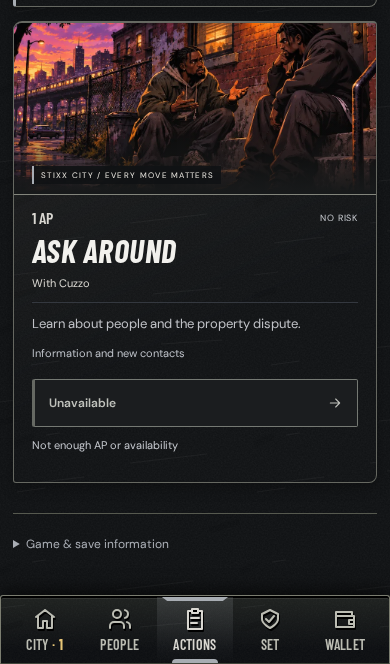
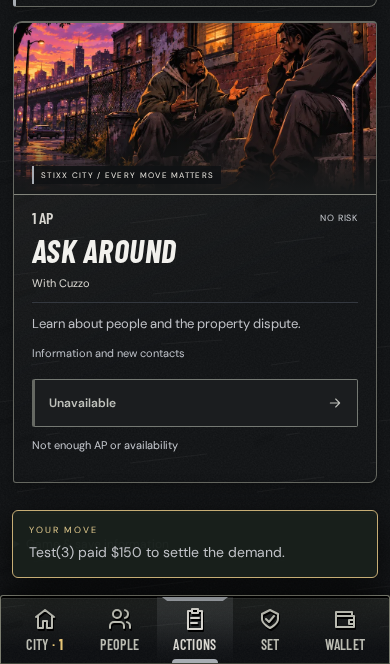
Keep immediate action results visible above the phone dock

diff --git a/src/ui/App.tsx b/src/ui/App.tsx
@@ -131,6 +131,12 @@ export function App() {
     null,
   );
   const [dayTransition, setDayTransition] = useState<number | null>(null);
+  const [actionFeedback, setActionFeedback] = useState<string | null>(null);
+  useEffect(() => {
+    if (!actionFeedback) return;
+    const timer = window.setTimeout(() => setActionFeedback(null), 5000);
+    return () => clearTimeout(timer);
+  }, [actionFeedback]);
   useEffect(() => {
     if (dayTransition === null) return;
     const timer = window.setTimeout(() => setDayTransition(null), 2200);
@@ -159,6 +165,7 @@ export function App() {
   }, [s]);
   function start() {
     window.scrollTo(0, 0);
+    setActionFeedback(null);
     const next = newGame(name, home);
     setState(next);
     setSelected(home);
@@ -167,6 +174,7 @@ export function App() {
     setNotice("You’re home. Clock in, check on Cuzzo, or see who’s around.");
   }
   function load(resume = false) {
+    setActionFeedback(null);
     try {
       const next = resume
         ? loadGame(localStorage, AUTO_KEY) || loadGame(localStorage)
@@ -184,6 +192,7 @@ export function App() {
     }
   }
   function save() {
+    setActionFeedback(null);
     if (s)
       try {
         saveGame(localStorage, s);
@@ -196,10 +205,14 @@ export function App() {
   function act(a: Action) {
     if (!s) return;
     const result = performAction(s, a);
-    if (result.error) setNotice(result.error);
-    else {
+    if (result.error) {
+      setNotice(result.error);
+      setActionFeedback(result.error);
+    } else {
       setState(result.state);
-      setNotice(result.event?.text ?? "Action completed.");
+      const message = result.event?.text ?? "Action completed.";
+      setNotice(message);
+      setActionFeedback(message);
     }
   }
   function respond(id: string, response: string) {
@@ -219,6 +232,7 @@ export function App() {
                 ? "Outcome acknowledged. The city moves on; the history remains."
                 : "Cuzzo explains what happened.";
       setNotice(reply);
+      if (response !== "clarify") setActionFeedback(reply);
     }
   }
   function showConversation(id: string) {
@@ -251,7 +265,11 @@ export function App() {
     setScreen("Actions");
   }
   const toast = (
-    <div className="notice" role="status" aria-live="polite">
+    <div
+      className="notice"
+      role={actionFeedback ? undefined : "status"}
+      aria-live={actionFeedback ? "off" : "polite"}
+    >
       {notice || "A persistent city. Every day leaves a mark."}
     </div>
   );
@@ -362,6 +380,12 @@ export function App() {
           load={() => load(false)}
         />
         <main className="main-content" id="main-content">
+          {actionFeedback && (
+            <div className="action-feedback" role="status" aria-live="polite">
+              <small>YOUR MOVE</small>
+              <p>{actionFeedback}</p>
+            </div>
+          )}
           <div className="screen-heading">
             <div>
               <p className="eyebrow">STIXX CITY / {screen.toUpperCase()}</p>
@@ -380,6 +404,7 @@ export function App() {
             <button
               className="advance"
               onClick={() => {
+                setActionFeedback(null);
                 const next = advanceDay(s);
                 setState(next);
                 setScreen("City");

diff --git a/tests/encounters.spec.ts b/tests/encounters.spec.ts
@@ -107,6 +107,10 @@ test("true City modal, sequential questions, promise closure, queued fulfillment
   expect(incidentPromise(await saved(page), "the-chains")?.status).toBe(
     "pending",
   );
+  await expect(page.locator(".action-feedback")).toBeVisible();
+  await expect(page.locator(".action-feedback")).toHaveCount(0, {
+    timeout: 7000,
+  });
   await capture(page, "03-conversation-concluded-city");
   await page.getByLabel("Save game", { exact: true }).click();
   for (const destination of ["Actions", "People", "Set", "Wallet"]) {
@@ -125,6 +129,12 @@ test("true City modal, sequential questions, promise closure, queued fulfillment
     ),
   ).toHaveLength(1);
   await expect(page.getByRole("status")).toContainText("paid $150");
+  await expect(page.locator(".action-feedback")).toBeVisible();
+  const feedbackBox = (await page.locator(".action-feedback").boundingBox())!;
+  expect(feedbackBox.y).toBeGreaterThanOrEqual(0);
+  expect(feedbackBox.y + feedbackBox.height).toBeLessThanOrEqual(
+    (await page.getByRole("navigation").boundingBox())!.y,
+  );
   await capture(page, "04-actions-feedback-no-scene");
   await nav(page, "City");
   await expect(modal(page)).toContainText("You came through for me");

diff --git a/src/ui/encounters.css b/src/ui/encounters.css
@@ -453,3 +453,30 @@
     line-height: 1.6;
   }
 }
+.action-feedback {
+  position: fixed;
+  z-index: 60;
+  left: 50%;
+  transform: translateX(-50%);
+  bottom: calc(86px + env(safe-area-inset-bottom));
+  width: min(680px, calc(100vw - 24px));
+  padding: 13px 16px;
+  border: 1px solid #c6ad75;
+  border-radius: 6px;
+  background: #19201cf7;
+  color: #f5eddd;
+  box-shadow: 0 8px 36px #000b;
+  pointer-events: none;
+}
+.action-feedback small {
+  display: block;
+  font-size: 9px;
+  letter-spacing: 2px;
+  color: #dfc88c;
+  margin-bottom: 5px;
+}
+.action-feedback p {
+  margin: 0;
+  font-size: 14px;
+  line-height: 1.55;
+}

diff --git a/docs/GOAL_003_CORRECTION_REPORT.md b/docs/GOAL_003_CORRECTION_REPORT.md
@@ -24,7 +24,7 @@ Only City renders narrative modals. Actions, People, Set and Wallet retain their
 
 ## Immediate action results and day changes
 
-`resolveAction` returns its own recorded result event through `performAction`. The interface displays that event, so a later routine Set-capacity/progression update cannot hide the action's actual result. This fixes a real regression found during testing: a successful buyback could previously report only “Your influence supports a Set of 2.”
+`resolveAction` returns its own recorded result event through `performAction`. The interface displays that event in a five-second, viewport-fixed result toast above the dock as well as the normal feedback area. It remains visible when the action card was far down the page, and a later routine Set-capacity/progression update cannot hide the action's actual result. This fixes a real regression found during testing: a successful buyback could previously report only “Your influence supports a Set of 2.”
 
 End Day retains the existing simulation advancement and costs, then returns to City, resets scroll, restores AP normally, and briefly shows the new day without a confirmation screen. Only genuine new world events create new encounters. Starting/resuming a run also resets scroll before opening a modal, preventing its scroll lock from restoring an old menu position.
 
@@ -47,9 +47,10 @@ The build writes `build-info.json` containing the actual checked-out commit and 
 - Unit and simulation tests: **69 passed** across four files.
 - Full root browser suite: **64 passed** — 32 Chromium and 32 WebKit, including both 40-day continuation paths on each engine.
 - Production `/Hood-Hero/` browser suite: **34 passed** — 17 Chromium and 17 WebKit.
+- Final viewport-feedback adjustment: **28 additional browser checks passed** — 14 per engine under `/Hood-Hero/`, including scrolled-card result visibility, mobile regressions, and both 40-day paths.
 - TypeScript/Vite build, formatting checks, and `git diff --check`: passed.
 
-[Recorded root browser output](validation/GOAL_003_CORRECTION_ROOT.txt) · [Production-base browser output](validation/GOAL_003_CORRECTION_PAGES.txt). Required browser checks cover the opening modal, blocked background clicks, focus containment, clarification/portrait change, acceptance, refusal, postponement, dismissal, queue sequencing, history without effects, City-only routing, action feedback, day transitions, 40-day non-repetition, chronological severity/faction rendering, all starting homes/affiliation themes, and 320/375/390/430px layouts with axe accessibility checks.
+[Recorded root browser output](validation/GOAL_003_CORRECTION_ROOT.txt) · [Production-base browser output](validation/GOAL_003_CORRECTION_PAGES.txt) · [Final viewport-feedback checks](validation/GOAL_003_CORRECTION_FEEDBACK.txt). Required browser checks cover the opening modal, blocked background clicks, focus containment, clarification/portrait change, acceptance, refusal, postponement, dismissal, queue sequencing, history without effects, City-only routing, action feedback, day transitions, 40-day non-repetition, chronological severity/faction rendering, all starting homes/affiliation themes, and 320/375/390/430px layouts with axe accessibility checks.
 
 The broader existing browser suite explicitly dismisses the opening scene before testing ordinary gameplay. Its day-loop tests now navigate from City back to the intended destination, reflecting the corrected End Day behavior. Existing simulation/economy/relationship/progression tests remain intact, apart from expected schema-version assertions.
 
